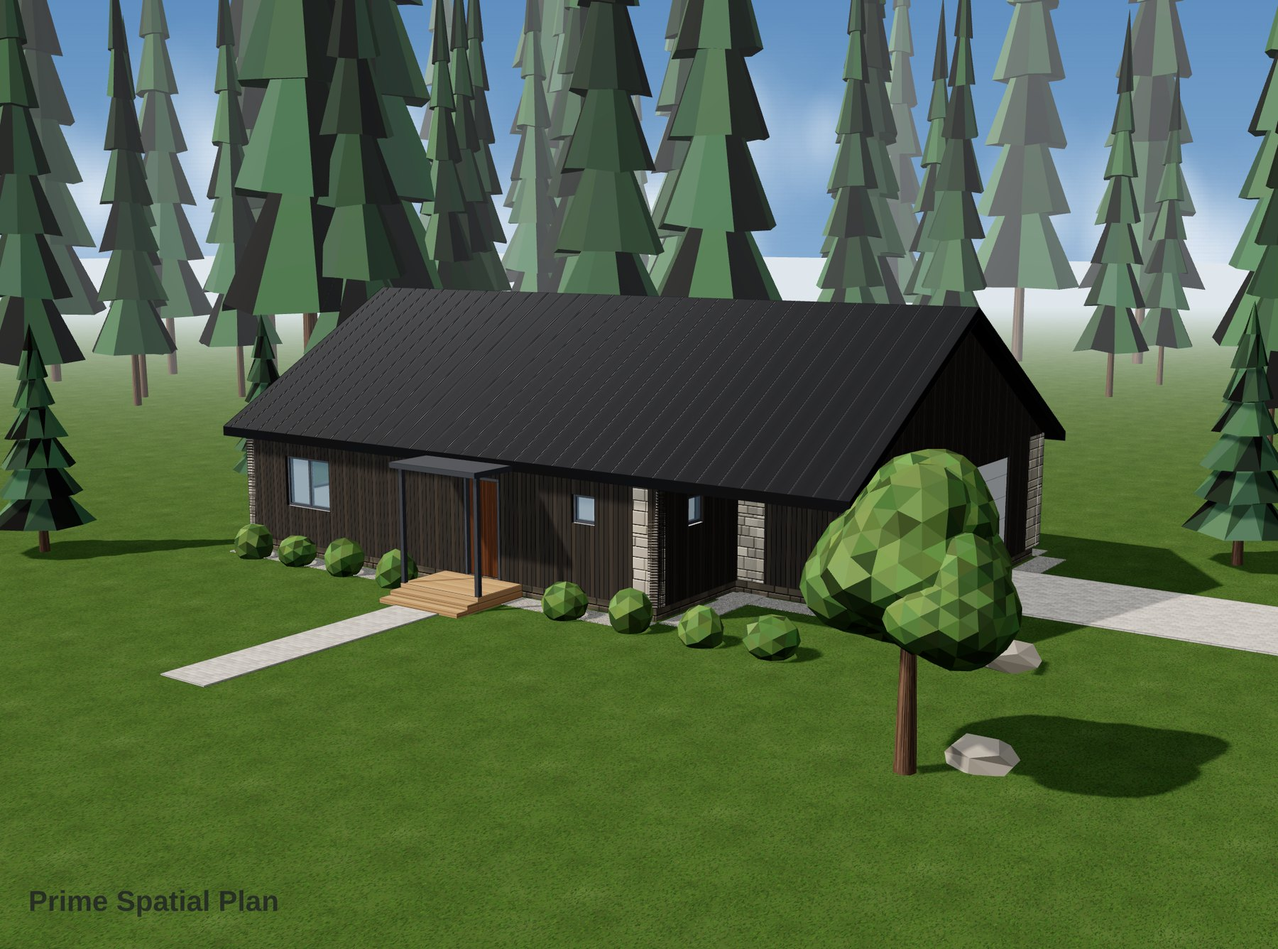
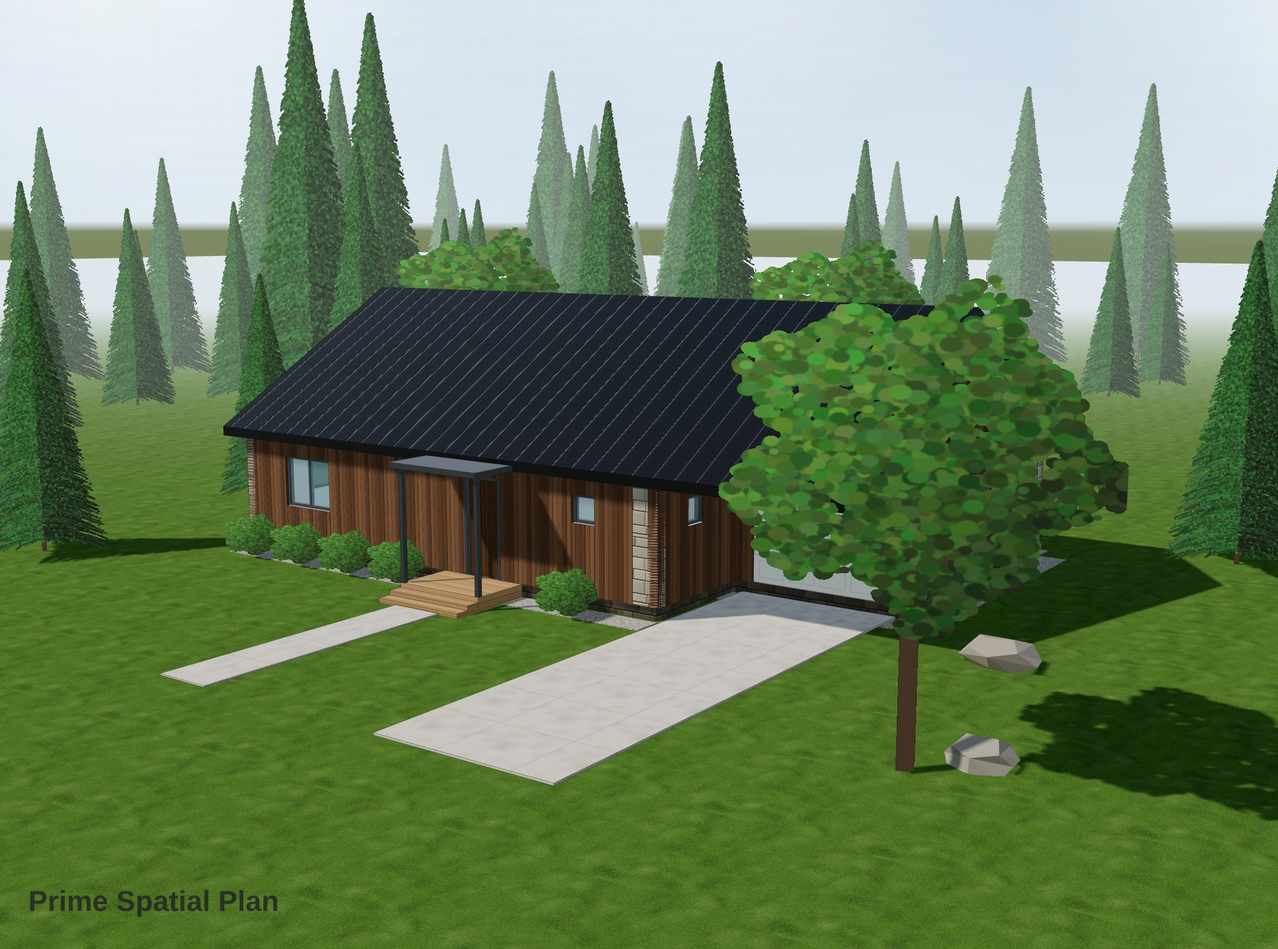
3D realism: painted billboard trees with true shadows, richer lawn, cedar facade, concrete drives, white sectional garage door, sky reflections; plan renders updated
Claude-Session: https://claude.ai/code/session_01UG1vAo71nibs4gLHwPWaPt

diff --git a/assets/planner3d.js b/assets/planner3d.js
@@ -5,7 +5,7 @@
 import * as THREE from './vendor/three.module.min.js';
 import {OrbitControls} from './vendor/OrbitControls.js';
 import {RoomEnvironment} from './vendor/RoomEnvironment.js';
-import {T, FACADE_FLAT} from './planner-tex.js?v=2';
+import {T, FACADE_FLAT} from './planner-tex.js?v=4';
 
 const FH = 3, SL = .25, PL = .3, T30 = Math.tan(30 * Math.PI / 180);
 const near = (a, b) => Math.abs(a - b) < 1e-4;
@@ -27,7 +27,7 @@ export function create(canvas, ui){
   const sun = new THREE.DirectionalLight(0xfff1df, 2.3); sun.castShadow = true;
   sun.shadow.mapSize.set(2048, 2048); sun.shadow.bias = -.0005; sun.shadow.normalBias = .03;
   scene.add(sun, sun.target);
-  const pmrem = new THREE.PMREMGenerator(renderer), envTex = pmrem.fromScene(new RoomEnvironment(), .04).texture;
+  const pmrem = new THREE.PMREMGenerator(renderer), envRoom = pmrem.fromScene(new RoomEnvironment(), .04).texture; let envSky = null;
   let root = new THREE.Group(); scene.add(root);
   let MODEL = null, ENTRIES = [], PAVED = [], PERIM = [];
   let frustum = 24, fbase = 24, fitted = false, M = null, LM = null, anim = null;
@@ -51,8 +51,12 @@ export function create(canvas, ui){
     };
     const rm = m.roof.mat || 'seam', vc = (c) => hid ? new THREE.MeshBasicMaterial({color:'#ffffff', polygonOffset:true, polygonOffsetFactor:1, polygonOffsetUnits:1})
       : real ? new THREE.MeshStandardMaterial({vertexColors:true, flatShading:true, roughness:.95, envMapIntensity:.25}) : new THREE.MeshLambertMaterial({vertexColors:true, flatShading:true});
+    const bb = (n, at) => { const m = new THREE.MeshStandardMaterial({map:T(n).map, alphaTest:at || .5, side:THREE.DoubleSide, roughness:.92, envMapIntensity:.25});
+      m.userData.depth = new THREE.MeshDepthMaterial({depthPacking:THREE.RGBADepthPacking, map:T(n).map, alphaTest:at || .5}); return m; };
     const R = {
-      F:{plaster:tx('plaster', FACADE_FLAT.plaster), brick:tx('brick', FACADE_FLAT.brick, {roughness:.92}), wood:tx('wood', FACADE_FLAT.wood, {roughness:.7}), stone:tx('stone', FACADE_FLAT.stone), timber:tx('timber', FACADE_FLAT.timber, {roughness:.8})},
+      F:{plaster:tx('plaster', FACADE_FLAT.plaster), brick:tx('brick', FACADE_FLAT.brick, {roughness:.92}), wood:tx('wood', FACADE_FLAT.wood, {roughness:.7}), stone:tx('stone', FACADE_FLAT.stone), timber:tx('timber', FACADE_FLAT.timber, {roughness:.8}), cedar:tx('cedar', FACADE_FLAT.cedar, {roughness:.8})},
+      concrete:tx('concrete', '#d2cfc8', {roughness:.92, env:.25}),
+      pine:real ? bb('pine') : null, leafy:real ? bb('leafy') : null, tuft:real ? bb('tuft', .35) : null,
       gravel:tx('gravel', '#c9c6bf', {roughness:1, env:.2}), deck:tx('deck', '#c9a77c', {roughness:.8}), rock:real ? new THREE.MeshStandardMaterial({color:'#9b968d', roughness:.95, flatShading:true, envMapIntensity:.3}) : mk('#c9c5bd', {flatShading:true}),
       porch:tx('stone', '#d4cfc6', {tint:'#e4e0d8'}), canopy:mk(real ? '#33363b' : '#55595f', {roughness:.5}),
       leaf:vc(), conifer:vc(),
@@ -67,11 +71,11 @@ export function create(canvas, ui){
       frame: mk(real ? '#3a3e44' : '#55595f', {roughness:.5, hid:'#ffffff'}),
       doorInt: mk(real ? '#d9cbb3' : '#e2d5bf', {roughness:.6}),
       doorExt: tx('doorWood', '#8a6040', {roughness:.55}),
-      garage: mk(real ? '#cfd2d6' : '#d6d8db', {roughness:.45, metalness:real ? .3 : 0}),
+      garage: real ? new THREE.MeshStandardMaterial({map:T('garageDoor').map, roughness:.45, metalness:.1, envMapIntensity:.5}) : mk('#d6d8db', {roughness:.45}),
       rail: mk(real ? '#f2eee7' : '#f1eee8'),
       roof: tx(rm, m.roof.color, {tint:m.roof.color, roughness:rm === 'shingle' ? .9 : .42, metalness:rm === 'shingle' ? 0 : .45, side:THREE.DoubleSide, env:.7}),
       seam: new THREE.LineBasicMaterial({color:hid ? '#9a9da2' : new THREE.Color(m.roof.color).multiplyScalar(.62), transparent:true, opacity:hid ? .6 : .9}),
-      grass: real ? tx('grass', '#dfe3d6', {roughness:1, env:.15, tint:'#aab494'}) : mk('#dfe3d6', {hid:'#ffffff'}),
+      grass: real ? tx('grass', '#dfe3d6', {roughness:1, env:.15, tint:'#c2c9ae'}) : mk('#dfe3d6', {hid:'#ffffff'}),
       earth: mk(real ? '#7b6a55' : '#c9c1b4', {roughness:1, hid:'#ffffff'}),
       pave: tx('pavers', '#d2cfc8', {roughness:.95}),
       trunk: tx('bark', '#a9998a'),
@@ -88,7 +92,7 @@ export function create(canvas, ui){
   function box(x0, x1, y0, y1, z0, z1, mat, o = {}){
     if(x1 - x0 < 1e-3 || y1 - y0 < 1e-3 || z1 - z0 < 1e-3) return null;
     const g = new THREE.BoxGeometry(x1 - x0, y1 - y0, z1 - z0), m = new THREE.Mesh(g, mat);
-    m.position.set((x0 + x1) / 2, (y0 + y1) / 2, (z0 + z1) / 2); wuv(g, m.position);
+    m.position.set((x0 + x1) / 2, (y0 + y1) / 2, (z0 + z1) / 2); if(!o.nouv) wuv(g, m.position);
     m.castShadow = o.cast !== false; m.receiveShadow = true; root.add(m);
     if(!o.noEdge){ const e = edgeLines(g); e.position.copy(m.position); root.add(e); }
     return m;
@@ -102,7 +106,7 @@ export function create(canvas, ui){
     uv.needsUpdate = true;
   }
   function prect(ori, u0, u1, v0, v1, y0, y1, mat, o){ const a = Math.min(u0, u1), b = Math.max(u0, u1), c = Math.min(v0, v1), d = Math.max(v0, v1);
-    if(mat === M.pave || mat === M.porch) PAVED.push(ori === 'h' ? [a, b, c, d] : [c, d, a, b]);
+    if(mat === M.pave || mat === M.porch || mat === M.concrete) PAVED.push(ori === 'h' ? [a, b, c, d] : [c, d, a, b]);
     return ori === 'h' ? box(a, b, y0, y1, c, d, mat, o) : box(c, d, y0, y1, a, b, mat, o); }
   /* facade material for an exterior wall piece */
   function facadeAt(i, yl){ const f = MODEL.facade; if(f !== 'mixed') return M.F[f] || M.F.plaster;
@@ -162,10 +166,10 @@ export function create(canvas, ui){
         const piece = (y0, y1, top) => ext ? ewall(L.ori, L.c, a, b, t, y0, y1, r.side, i, top ? ct : null) : wbox(L.ori, L.c, a, b, t, y0, y1, top ? mat : wm);
         if(ext && i === 0) PERIM.push({ori:L.ori, c:L.c, a:r.a, b:r.b, out:-(r.side || 1)});
         if(!o){
-          if(ext && MODEL.facade === 'timber' && r.b - r.a > 1.3){ const cw = Math.min(.9, (r.b - r.a) / 2 - .1), sa = !prev ? a + cw : a, sb = !next ? b - cw : b;
+          if(ext && (MODEL.facade === 'timber' || MODEL.facade === 'cedar') && r.b - r.a > 1.3){ const cw = Math.min(.9, (r.b - r.a) / 2 - .1), sa = !prev ? a + cw : a, sb = !next ? b - cw : b;
             if(!prev) wbox(L.ori, L.c, a, sa, t, z0, z0 + H, extMats(L.ori, r.side, M.F.stone, cutTop ? M.cut : null));
             if(!next) wbox(L.ori, L.c, sb, b, t, z0, z0 + H, extMats(L.ori, r.side, M.F.stone, cutTop ? M.cut : null));
-            wbox(L.ori, L.c, sa, sb, t, z0, z0 + H, extMats(L.ori, r.side, M.F.timber, cutTop ? M.cut : null)); return; }
+            wbox(L.ori, L.c, sa, sb, t, z0, z0 + H, extMats(L.ori, r.side, M.F[MODEL.facade], cutTop ? M.cut : null)); return; }
           piece(z0, z0 + H, true); return; }
         const s = Math.min(o.s, H), hd = Math.min(o.h, H);
         if(ext && i === 0 && o.k === 'door') ENTRIES.push({ori:L.ori, c:L.c, a:r.a, b:r.b, out:-(r.side || 1), h:o.h});
@@ -182,7 +186,8 @@ export function create(canvas, ui){
           return;
         }
         if(o.k === 'garage'){
-          const g = wbox(L.ori, L.c + (o.sw || 1) * -.05, a, b, .05, z0, z0 + hd, M.garage);
+          const g = wbox(L.ori, L.c + (o.sw || 1) * -.05, a, b, .05, z0, z0 + hd, M.garage, {nouv:true});
+          if(g && MODEL.style === 'realistic') return;
           if(g){ const pts = []; for(let y = .5; y < hd - .1; y += .5){ const yy = z0 + y - g.position.y;
               if(L.ori === 'h') pts.push(-(b - a) / 2, yy, -.03 * (o.sw || 1), (b - a) / 2, yy, -.03 * (o.sw || 1));
               else pts.push(-.03 * (o.sw || 1), yy, -(b - a) / 2, -.03 * (o.sw || 1), yy, (b - a) / 2); }
@@ -255,7 +260,7 @@ export function create(canvas, ui){
   function porch(e, b, pad){
     const w = e.b - e.a, cu = (e.a + e.b) / 2, W = Math.max(w + 1.2, 2), D = 1.4, o = e.out;
     const c0 = e.c + o * .125, c1 = c0 + o * D, c2 = c1 + o * .32, c3 = c2 + o * .32;
-    const pm = MODEL.facade === 'timber' || MODEL.facade === 'wood' ? M.deck : M.porch; if(pm === M.deck) PAVED.push(e.ori === 'h' ? [cu - W / 2, cu + W / 2, Math.min(c0, c3), Math.max(c0, c3)] : [Math.min(c0, c3), Math.max(c0, c3), cu - W / 2, cu + W / 2]);
+    const pm = /timber|wood|cedar/.test(MODEL.facade) ? M.deck : M.porch; if(pm === M.deck) PAVED.push(e.ori === 'h' ? [cu - W / 2, cu + W / 2, Math.min(c0, c3), Math.max(c0, c3)] : [Math.min(c0, c3), Math.max(c0, c3), cu - W / 2, cu + W / 2]);
     prect(e.ori, cu - W / 2, cu + W / 2, c0, c1, -PL, 0, pm);
     prect(e.ori, cu - W / 2, cu + W / 2, c1, c2, -PL, -.1, pm);
     prect(e.ori, cu - W / 2, cu + W / 2, c2, c3, -PL, -.2, pm);
@@ -263,7 +268,7 @@ export function create(canvas, ui){
     prect(e.ori, cu - W / 2 - .1, cu + W / 2 + .1, c0, c1 + o * .15, ch, ch + .12, M.canopy);
     [-1, 1].forEach(k => prect(e.ori, cu + k * (W / 2 - .05) - .05, cu + k * (W / 2 - .05) + .05, c1 - o * .02, c1 - o * .12, 0, ch, M.canopy));
     const edge = e.ori === 'h' ? (o > 0 ? b[3] + pad : b[1] - pad) : (o > 0 ? b[2] + pad : b[0] - pad);
-    if((edge - c3) * o > .2) prect(e.ori, cu - .6, cu + .6, c3, edge, -PL, -PL + .03, M.pave, {cast:false});
+    if((edge - c3) * o > .2) prect(e.ori, cu - .6, cu + .6, c3, edge, -PL, -PL + .03, MODEL.style === 'realistic' ? M.concrete : M.pave, {cast:false});
   }
   /* ---------- trees, shrubs ---------- */
   function rnd(seed){ let s = seed >>> 0 || 1; return () => (s = (Math.imul(s, 1664525) + 1013904223) >>> 0) / 4294967296; }
@@ -275,8 +280,23 @@ export function create(canvas, ui){
     g.setAttribute('color', new THREE.BufferAttribute(col, 3)); return g; }
   function part(g, mat, x, y, z, edges){ const m = new THREE.Mesh(g, mat); m.position.set(x, y, z); m.castShadow = true; m.receiveShadow = true; root.add(m);
     if(edges){ const e = edgeLines(g, 25); e.position.copy(m.position); root.add(e); } return m; }
+  /* cross-plane billboards: n vertical quads around the y axis, normals up so foliage is lit evenly */
+  function crossGeo(w, h, n, uvr){ const pos = [], uv = [], nor = [], u0 = uvr ? uvr[0] : 0, v0 = uvr ? uvr[1] : 0, u1 = uvr ? uvr[2] : 1, v1 = uvr ? uvr[3] : 1;
+    for(let k = 0; k < n; k++){ const a = k * Math.PI / n, cx = Math.cos(a) * w / 2, cz = Math.sin(a) * w / 2, Q = [[-cx, 0, -cz], [cx, 0, cz], [cx, h, cz], [-cx, h, -cz]];
+      [0, 1, 2, 0, 2, 3].forEach(i => pos.push(...Q[i])); [[u0, v0], [u1, v0], [u1, v1], [u0, v0], [u1, v1], [u0, v1]].forEach(q => uv.push(...q)); for(let i = 0; i < 6; i++) nor.push(0, 1, 0); }
+    const g = new THREE.BufferGeometry(); g.setAttribute('position', new THREE.Float32BufferAttribute(pos, 3)); g.setAttribute('uv', new THREE.Float32BufferAttribute(uv, 2)); g.setAttribute('normal', new THREE.Float32BufferAttribute(nor, 3)); return g; }
+  /* camera-facing (around the vertical axis) billboard; in the shadow pass it faces the sun so the shadow keeps the tree's outline */
+  const _v = new THREE.Vector3();
+  function sprite(g, mat, x, z, rot, shadow){ const m = new THREE.Mesh(g, mat); m.position.set(x, -PL, z); m.castShadow = shadow; m.customDepthMaterial = mat.userData.depth;
+    const face = c => { if(c.isOrthographicCamera){ c.getWorldDirection(_v); m.rotation.y = Math.atan2(-_v.x, -_v.z); } else m.rotation.y = Math.atan2(c.position.x - x, c.position.z - z);
+      m.updateMatrix(); m.matrixWorld.copy(m.matrix); m.modelViewMatrix.multiplyMatrices(c.matrixWorldInverse, m.matrixWorld); m.normalMatrix.getNormalMatrix(m.modelViewMatrix); };
+    m.onBeforeRender = (r, sc, c) => face(c); m.onBeforeShadow = (r, o, c, sc) => face(sc); root.add(m); return m; }
   function tree(x, z, s, kind, seed, edges){
     const y0 = -PL;
+    if(MODEL.style === 'realistic'){ const r = rnd(seed);
+      if(kind === 'conifer') sprite(crossGeo(3.4 * s, 7 * s, 1), M.pine, x, z, 0, true);
+      else sprite(crossGeo(5 * s, 6.6 * s, 1), M.leafy, x, z, 0, true);
+      return; }
     if(kind === 'conifer'){
       part(new THREE.CylinderGeometry(.08 * s, .13 * s, 1.2 * s, 7), M.trunk, x, y0 + .6 * s, z, false);
       for(let k = 0; k < 6; k++){ const g = paint(lumpy(new THREE.ConeGeometry((1.15 - .16 * k) * s, 1.3 * s, 10, 2).toNonIndexed(), seed + k, .07), '#34503a', seed * 7 + k);
@@ -299,8 +319,9 @@ export function create(canvas, ui){
     const cx = (b[0] + b[2]) / 2, cz = (b[1] + b[3]) / 2, R0 = Math.max(b[2] - b[0], b[3] - b[1]) / 2 + pad + 5, list = [];
     for(let i = 0; i < 240 && list.length < 140; i++){ const an = r() * Math.PI * 2, d = R0 + 2 + r() * 38, x = cx + Math.cos(an) * d, z = cz + Math.sin(an) * d;
       if(z > cz + 4 && Math.abs(x - cx) < R0 + 6 && d < R0 + 24) continue; list.push([x, z, 1.6 + r() * 2.4, r() * 6]); }
-    const im = new THREE.InstancedMesh(cg, M.conifer, list.length), it = new THREE.InstancedMesh(tg, M.trunk, list.length), mt = new THREE.Matrix4(), q = new THREE.Quaternion(), sc = new THREE.Vector3(), p = new THREE.Vector3();
-    list.forEach((t, i) => { q.setFromAxisAngle(new THREE.Vector3(0, 1, 0), t[3]); sc.set(t[2] * .75, t[2] * 1.45, t[2] * .75); p.set(t[0], -PL, t[1]); mt.compose(p, q, sc); im.setMatrixAt(i, mt); it.setMatrixAt(i, mt); });
+    if(MODEL.style === 'realistic'){ const g = crossGeo(3.2, 7, 1); list.forEach(t => { const sp = sprite(g, M.pine, t[0], t[1], 0, false); sp.scale.set(t[2] * .55, t[2] * .62, t[2] * .55); }); return; }
+    const real = false, im = new THREE.InstancedMesh(real ? crossGeo(3.2, 7, 3) : cg, real ? M.pine : M.conifer, list.length), it = new THREE.InstancedMesh(tg, M.trunk, real ? 0 : list.length), mt = new THREE.Matrix4(), q = new THREE.Quaternion(), sc = new THREE.Vector3(), p = new THREE.Vector3();
+    list.forEach((t, i) => { q.setFromAxisAngle(new THREE.Vector3(0, 1, 0), t[3]); if(real) sc.set(t[2] * .55, t[2] * .62, t[2] * .55); else sc.set(t[2] * .75, t[2] * 1.45, t[2] * .75); p.set(t[0], -PL, t[1]); mt.compose(p, q, sc); im.setMatrixAt(i, mt); if(!real) it.setMatrixAt(i, mt); });
     im.castShadow = false; root.add(im, it);
   }
   function landscape(b, pad, m){
@@ -315,8 +336,10 @@ export function create(canvas, ui){
     /* shrubs along the front facade, clear of paths */
     for(let x = b[0] + .7; x < b[2] - .5; x += 1.6){ const z = b[3] + .75;
       if(PAVED.some(p => x > p[0] - .7 && x < p[1] + .7 && z > p[2] - .7 && z < p[3] + .7)) continue;
+      if(m.style === 'realistic'){ sprite(crossGeo(1.25, 1, 1, [.06, .3, .94, .92]), M.leafy, x, z, 0, true); continue; }
       const g = paint(lumpy(new THREE.IcosahedronGeometry(.42 + (x * 7 % 1) * .12, 1), x * 3, .14), '#58763a', Math.floor(x * 100));
       part(g, M.leaf, x, -PL + .3, z, edges); }
+
   }
   /* ---------- whole model ---------- */
   function build(m){
@@ -330,7 +353,8 @@ export function create(canvas, ui){
     LM = new THREE.LineBasicMaterial({color:'#1b1d21', transparent:true, opacity:m.style === 'realistic' ? .3 : m.style === 'shaded' ? .8 : 1});
     const real = m.style === 'realistic';
     renderer.toneMapping = real ? THREE.ACESFilmicToneMapping : THREE.NoToneMapping; renderer.toneMappingExposure = 1.05;
-    scene.environment = real ? envTex : null;
+    if(real && !envSky) envSky = pmrem.fromEquirectangular(T('skyDay').map).texture;
+    scene.environment = real ? envSky : null;
     hemi.intensity = real ? .7 : m.style === 'shaded' ? .55 : 0; amb.intensity = m.style === 'shaded' ? .55 : 0;
     sun.intensity = real ? 2.6 : m.style === 'shaded' ? 1.4 : 0; sun.castShadow = m.shadows && m.style !== 'hidden';
 
@@ -350,7 +374,7 @@ export function create(canvas, ui){
     if(m.floors[0]) m.floors[0].ops.forEach(o => {
       if(o.k !== 'garage') return;
       const out = -(o.sw || 1), c1 = o.c + out * (o.ori === 'h' ? (out > 0 ? b[3] + pad - o.c : o.c - b[1] + pad) : (out > 0 ? b[2] + pad - o.c : o.c - b[0] + pad));
-      prect(o.ori, o.a - .3, o.b + .3, o.c, c1, -PL, -PL + .04, M.pave, {cast:false});
+      prect(o.ori, o.a - .3, o.b + .3, o.c, c1, -PL, -PL + .04, real ? M.concrete : M.pave, {cast:false});
     });
     m.floors.forEach((f, i) => {
       if(i > lastF) return;
@@ -372,7 +396,7 @@ export function create(canvas, ui){
     landscape(b, pad, m);
     /* eye-level surroundings: far lawn, forest, sky and haze */
     scene.background = null; scene.fog = null;
-    if(persp && real){ scene.background = T('sky').map; scene.fog = new THREE.Fog('#dfe7ec', 28, 150);
+    if(persp && real){ scene.background = T('skyDay').map; scene.fog = new THREE.Fog('#dfe7ec', 28, 150);
       const gg = new THREE.PlaneGeometry(600, 600); gg.rotateX(-Math.PI / 2); const gm = new THREE.Mesh(gg, M.grass); gm.position.set((b[0] + b[2]) / 2, -PL, (b[1] + b[3]) / 2); wuv(gg, gm.position); gm.receiveShadow = true; root.add(gm);
       forest(b, pad); }
 

diff --git a/assets/planner-tex.js b/assets/planner-tex.js
@@ -56,12 +56,12 @@ const MAKERS = {
     speckle(g, 512, 512, r, 9000, .3);
     return {map:tex(c, [1.4, 1.4]), bump:tex(b, [1.4, 1.4], false), bs:2.5}; },
   /* lawn */
-  grass(){ const [c, g] = cv(512, 512), r = rng(9);
-    g.fillStyle = '#7d9853'; g.fillRect(0, 0, 512, 512); blotch(g, 512, 512, r, 60, .06);
-    for(let i = 0; i < 14000; i++){ const x = r() * 512, y = r() * 512, l = 3 + r() * 6, an = -Math.PI / 2 + (r() - .5) * 1.1;
-      g.strokeStyle = `hsl(${78 + r() * 26},${32 + r() * 22}%,${26 + r() * 26}%)`; g.lineWidth = .8 + r() * .8;
+  grass(){ const [c, g] = cv(1024, 1024), r = rng(9);
+    g.fillStyle = '#6e9140'; g.fillRect(0, 0, 1024, 1024); blotch(g, 1024, 1024, r, 160, .11);
+    for(let i = 0; i < 60000; i++){ const x = r() * 1024, y = r() * 1024, l = 3 + r() * 7, an = -Math.PI / 2 + (r() - .5) * 1.2;
+      g.strokeStyle = `hsl(${76 + r() * 24},${38 + r() * 22}%,${28 + r() * 26}%)`; g.lineWidth = .7 + r() * .8;
       g.beginPath(); g.moveTo(x, y); g.lineTo(x + Math.cos(an) * l, y + Math.sin(an) * l); g.stroke(); }
-    return {map:tex(c, [3, 3])}; },
+    return {map:tex(c, [2.5, 2.5])}; },
   /* concrete block pavers, 200 × 100 mm */
   pavers(){ const [c, g] = cv(512, 512), [b, h] = cv(512, 512), r = rng(4), rows = 10, rh = 51.2, bw = 102.4;
     g.fillStyle = '#7d786f'; g.fillRect(0, 0, 512, 512); h.fillStyle = '#333'; h.fillRect(0, 0, 512, 512);
@@ -123,6 +123,53 @@ const MAKERS = {
       for(let k = 0; k < 14; k++){ const x = cx + (r() - .5) * w, y = cy + (r() - .5) * w * .22, rad = 18 + r() * 46, a = .1 + r() * .16;
         const rg = g.createRadialGradient(x, y, 0, x, y, rad); rg.addColorStop(0, `rgba(255,255,255,${a})`); rg.addColorStop(1, 'rgba(255,255,255,0)'); g.fillStyle = rg; g.fillRect(x - rad, y - rad, rad * 2, rad * 2); } }
     const t = new THREE.CanvasTexture(c); t.colorSpace = THREE.SRGBColorSpace; return {map:t}; },
+  /* warm cedar vertical boards */
+  cedar(){ const [c, g] = cv(512, 512), [b, h] = cv(512, 512), r = rng(23), n = 8, bw = 512 / n, pal = ['#6b4a32', '#76533a', '#5f412c', '#7f5b40', '#6f4d35'];
+    h.fillStyle = '#cccccc'; h.fillRect(0, 0, 512, 512);
+    for(let i = 0; i < n; i++){ const x = i * bw; g.fillStyle = pal[Math.floor(r() * pal.length)]; g.fillRect(x, 0, bw, 512);
+      for(let k = 0; k < 34; k++){ const xx = x + r() * bw, a = .05 + r() * .1; g.strokeStyle = r() < .55 ? `rgba(40,22,10,${a})` : `rgba(220,180,140,${a * .5})`; g.lineWidth = .6 + r() * 1.2;
+        g.beginPath(); g.moveTo(xx, 0); for(let y = 0; y <= 512; y += 32) g.lineTo(xx + Math.sin(y * .02 + k) * 1.4, y); g.stroke(); }
+      g.fillStyle = 'rgba(25,14,6,.65)'; g.fillRect(x + bw - 4, 0, 4, 512); g.fillStyle = 'rgba(255,230,200,.07)'; g.fillRect(x, 0, 2, 512); h.fillStyle = '#333'; h.fillRect(x + bw - 4, 0, 4, 512); }
+    return {map:tex(c, [.96, 1.6]), bump:tex(b, [.96, 1.6], false), bs:2.5}; },
+  /* poured concrete with saw-cut joints every 1.5 m */
+  concrete(){ const [c, g] = cv(512, 512), [b, h] = cv(512, 512), r = rng(25);
+    g.fillStyle = '#c9c6bf'; g.fillRect(0, 0, 512, 512); blotch(g, 512, 512, r, 50, .05); speckle(g, 512, 512, r, 12000, .18);
+    h.fillStyle = '#bbb'; h.fillRect(0, 0, 512, 512); g.fillStyle = 'rgba(70,68,64,.55)'; h.fillStyle = '#222';
+    [0, 511].forEach(v => { g.fillRect(v, 0, 2, 512); g.fillRect(0, v, 512, 2); h.fillRect(v, 0, 2, 512); h.fillRect(0, v, 512, 2); });
+    return {map:tex(c, [1.5, 1.5]), bump:tex(b, [1.5, 1.5], false), bs:1}; },
+  /* white sectional garage door with a row of windows (0..1 UVs across the door) */
+  garageDoor(){ const [c, g] = cv(512, 512), rows = 4;
+    g.fillStyle = '#f2f2f0'; g.fillRect(0, 0, 512, 512);
+    for(let j = 0; j < rows; j++){ const y = j * 128; g.fillStyle = 'rgba(0,0,0,.18)'; g.fillRect(0, y + 124, 512, 4); g.fillStyle = 'rgba(255,255,255,.6)'; g.fillRect(0, y, 512, 2);
+      for(let i = 0; i < 4; i++){ const x = 18 + i * 124; if(j === 0){ g.fillStyle = '#3d4a56'; g.fillRect(x + 6, y + 30, 100, 62); g.fillStyle = 'rgba(255,255,255,.25)'; g.fillRect(x + 8, y + 32, 40, 20); }
+        else { g.strokeStyle = 'rgba(0,0,0,.12)'; g.lineWidth = 3; g.strokeRect(x + 6, y + 22, 100, 80); } } }
+    const t = new THREE.CanvasTexture(c); t.colorSpace = THREE.SRGBColorSpace; return {map:t}; },
+  /* painted conifer for cross-plane billboards (alpha) */
+  pine(){ const [c, g] = cv(256, 512), r = rng(41);
+    g.fillStyle = '#4a3626'; g.fillRect(124, 300, 8, 212);
+    for(let i = 0; i < 3200; i++){ const t = Math.pow(r(), .85), y = 492 - t * 476, mw = 112 * Math.pow(1 - t, 1.05) + 5, side = r() < .5 ? -1 : 1, len = (.15 + r() * .85) * mw;
+      const lit = side < 0 ? 9 : -4, L = 13 + r() * 15 + lit + (1 - t) * -3;
+      g.strokeStyle = `hsl(${100 + r() * 35},${22 + r() * 22}%,${Math.max(6, L)}%)`; g.lineWidth = 1 + r() * 2.2;
+      g.beginPath(); g.moveTo(128 + side * r() * 3, y); g.quadraticCurveTo(128 + side * len * .55, y - 3, 128 + side * len, y + len * .22 + r() * 5); g.stroke(); }
+    for(let i = 0; i < 6000; i++){ const t = Math.pow(r(), .85), y = 492 - t * 476 + r() * 8, mw = 112 * Math.pow(1 - t, 1.05) + 4, x = 128 + (r() * 2 - 1) * mw * Math.sqrt(r());
+      g.fillStyle = `hsl(${95 + r() * 40},${25 + r() * 25}%,${10 + r() * 22 + (x < 128 ? 6 : 0)}%)`; g.fillRect(x, y, 1.5 + r() * 2, 1.5 + r() * 2); }
+    const t = new THREE.CanvasTexture(c); t.colorSpace = THREE.SRGBColorSpace; t.anisotropy = 4; return {map:t}; },
+  /* painted broadleaf tree */
+  leafy(){ const [c, g] = cv(256, 512), r = rng(43);
+    g.strokeStyle = '#4b3a2b'; g.lineCap = 'round';
+    [[128, 512, 128, 250, 12], [128, 360, 70, 250, 6], [128, 330, 190, 230, 6], [128, 290, 110, 160, 5], [128, 300, 160, 170, 4]].forEach(b => { g.lineWidth = b[4]; g.beginPath(); g.moveTo(b[0], b[1]); g.lineTo(b[2], b[3]); g.stroke(); });
+    for(let i = 0; i < 2600; i++){ const a = r() * Math.PI * 2, rr = Math.sqrt(r()), wob = 1 + .12 * Math.sin(a * 5 + 1) + .08 * Math.sin(a * 9);
+      const x = 128 + Math.cos(a) * rr * 112 * wob, y = 200 + Math.sin(a) * rr * 150 * wob, lit = (128 - x) * .05 + (200 - y) * .04;
+      g.fillStyle = `hsl(${85 + r() * 30},${30 + r() * 22}%,${Math.max(8, 20 + r() * 14 + lit)}%)`; g.beginPath(); g.arc(x, y, 2.5 + r() * 5, 0, 7); g.fill(); }
+    const t = new THREE.CanvasTexture(c); t.colorSpace = THREE.SRGBColorSpace; t.anisotropy = 4; return {map:t}; },
+  /* tuft of grass blades */
+  tuft(){ const [c, g] = cv(128, 128), r = rng(47);
+    for(let i = 0; i < 70; i++){ const x = 14 + r() * 100, h = 50 + r() * 74, lean = (r() - .5) * 40, w = 1.5 + r() * 2.5;
+      g.fillStyle = `hsl(${78 + r() * 30},${35 + r() * 25}%,${22 + r() * 24}%)`; g.beginPath(); g.moveTo(x - w, 128); g.quadraticCurveTo(x + lean * .3, 128 - h * .6, x + lean, 128 - h); g.quadraticCurveTo(x + lean * .3 + w * .4, 128 - h * .6, x + w, 128); g.fill(); }
+    const t = new THREE.CanvasTexture(c); t.colorSpace = THREE.SRGBColorSpace; return {map:t}; },
+  /* equirectangular skies used for the background and for reflections */
+  skyDay(){ return eq(['#4f80b4', '#8fb3d6', '#dbe7ef'], ['#7f8b62', '#56603f'], 'rgba(255,255,255,', 51); },
+  skyDusk(){ return eq(['#16233f', '#3e4f7a', '#e89c64'], ['#2c3024', '#1d2018'], 'rgba(255,190,150,', 53); },
   bark(){ const [c, g] = cv(128, 256), r = rng(6); g.fillStyle = '#5d4636'; g.fillRect(0, 0, 128, 256);
     for(let i = 0; i < 160; i++){ g.strokeStyle = r() < .5 ? 'rgba(25,15,8,.5)' : 'rgba(150,120,95,.35)'; g.lineWidth = 1 + r() * 2; const x = r() * 128;
       g.beginPath(); g.moveTo(x, r() * 256); g.lineTo(x + (r() - .5) * 6, r() * 256); g.stroke(); }
@@ -134,6 +181,13 @@ const MAKERS = {
 };
 function blotchRect(g, x, y, w, h, r){ const gr = g.createLinearGradient(x, y, x + w, y + h); gr.addColorStop(0, `rgba(255,255,255,${.08 * r()})`); gr.addColorStop(1, `rgba(0,0,0,${.12 * r()})`); g.fillStyle = gr; g.fillRect(x, y, w, h); }
 
+function eq(sky, gr, cl, seed){ const [c, g] = cv(1024, 512), r = rng(seed);
+  let G = g.createLinearGradient(0, 0, 0, 256); G.addColorStop(0, sky[0]); G.addColorStop(.6, sky[1]); G.addColorStop(1, sky[2]); g.fillStyle = G; g.fillRect(0, 0, 1024, 256);
+  for(let i = 0; i < 40; i++){ const cx = r() * 1024, cy = 110 + r() * 120, w = 60 + r() * 160;
+    for(let k = 0; k < 12; k++){ const x = cx + (r() - .5) * w, y = cy + (r() - .5) * w * .15, rad = 10 + r() * 34, a = .08 + r() * .14;
+      const rg = g.createRadialGradient(x, y, 0, x, y, rad); rg.addColorStop(0, cl + a + ')'); rg.addColorStop(1, cl + '0)'); g.fillStyle = rg; g.fillRect(x - rad, y - rad, rad * 2, rad * 2); } }
+  G = g.createLinearGradient(0, 256, 0, 512); G.addColorStop(0, gr[0]); G.addColorStop(1, gr[1]); g.fillStyle = G; g.fillRect(0, 256, 1024, 256);
+  const t = new THREE.CanvasTexture(c); t.colorSpace = THREE.SRGBColorSpace; t.mapping = THREE.EquirectangularReflectionMapping; return {map:t}; }
 export function T(name){ if(!cache[name]) cache[name] = MAKERS[name](); return cache[name]; }
-export const FACADE_FLAT = {plaster:'#efe9df', brick:'#a8634a', wood:'#9b6c45', stone:'#aaa396', timber:'#3a3530'};
+export const FACADE_FLAT = {plaster:'#efe9df', brick:'#a8634a', wood:'#9b6c45', stone:'#aaa396', timber:'#3a3530', cedar:'#7a5a40'};
 export {shade};

diff --git a/assets/planner.js b/assets/planner.js
@@ -22,7 +22,7 @@
         confirmClear:'Дахин дарж бүх зургийг устгана', saved:'Хадгалагдсан', addFloor:'+ Давхар', delFloor:'Давхар устгах',
         door:'Хаалга', win:'Цонх', garage:'Гаражийн хаалга', doors:'Хаалга', wins:'Цонх', roof:'Дээвэр', autoOn:'Автомат байрлал',
         rt:{auto:'Автомат', gable:'Хоёр налуу', hip:'Дөрвөн налуу', flat:'Хавтгай'},
-        fc:{auto:'Автомат (тоосго + шавардлага)', plaster:'Шавардлага', brick:'Тоосго', wood:'Модон өнгөлгөө', timber:'Хар мод + чулуун булан', stone:'Чулуун өнгөлгөө'},
+        fc:{auto:'Автомат (тоосго + шавардлага)', plaster:'Шавардлага', brick:'Тоосго', wood:'Модон өнгөлгөө', cedar:'Хүрэн мод + чулуун булан', timber:'Хар мод + чулуун булан', stone:'Чулуун өнгөлгөө'},
         rm:{seam:'Төмөр хавтан', tile:'Металл ваар', shingle:'Битум ширгэл'},
         hint:{draw:'Тор дээр чирж өрөө зурна · өрөөн дээр дарж сонгоно · хоёр хуруугаар томруулна', door:'Хананд дарж хаалга нэмнэ · хаалган дээр дарж сонгоно', win:'Хананд дарж цонх нэмнэ · цонхон дээр дарж сонгоно', select:'Өрөө, хаалга, цонхыг дарж сонгоод чирж зөөнө', d3:'Чирж эргүүлнэ · хоёр хуруугаар томруулж, зөөнө · баруун дээд кубаас харагдац сонгоно'},
         vc:{top:'ДЭЭР', front:'УРД', right:'БАРУУН', back:'АР', left:'ЗҮҮН'}},
@@ -31,7 +31,7 @@
         confirmClear:'Tap again to clear everything', saved:'Saved', addFloor:'+ Floor', delFloor:'Delete floor',
         door:'Door', win:'Window', garage:'Garage door', doors:'Doors', wins:'Windows', roof:'Roof', autoOn:'Auto layout',
         rt:{auto:'Auto', gable:'Gable', hip:'Hip', flat:'Flat'},
-        fc:{auto:'Auto (brick + render)', plaster:'Render', brick:'Brick', wood:'Timber cladding', timber:'Dark timber + stone corners', stone:'Stone cladding'},
+        fc:{auto:'Auto (brick + render)', plaster:'Render', brick:'Brick', wood:'Timber cladding', cedar:'Cedar + stone corners', timber:'Dark timber + stone corners', stone:'Stone cladding'},
         rm:{seam:'Standing seam metal', tile:'Metal tile', shingle:'Asphalt shingles'},
         hint:{draw:'Drag on the grid to draw a room · tap a room to select it · pinch or scroll to zoom', door:'Tap a wall to add a door · tap a door to select it', win:'Tap a wall to add a window · tap a window to select it', select:'Tap a room, door or window to select it, drag to move', d3:'Drag to orbit · pinch or scroll to zoom, two fingers to pan · pick a view on the cube'},
         vc:{top:'TOP', front:'FRONT', right:'RIGHT', back:'BACK', left:'LEFT'}}
@@ -347,7 +347,7 @@
     if(r3state === 3){ drawLegacy(); return; }
     if(r3state === 1) return;
     r3state = 1;
-    import(new URL('assets/planner3d.js?v=4', location.href).href).then(function(m){
+    import(new URL('assets/planner3d.js?v=6', location.href).href).then(function(m){
       r3 = m.create(cv, {cube:$('plCube')}); r3state = 2; window.PSP3D = r3; if(view === '3d') r3.update(model3());
     }).catch(function(err){ console.warn('3D fallback', err); r3state = 3; if(view === '3d') drawLegacy(); });
   }

diff --git a/planner.html b/planner.html
@@ -133,7 +133,7 @@
           <div class="f"><label for="plRoof" data-en="Roof">Дээвэр</label><select id="plRoof"><option value="auto">Автомат</option><option value="gable">Хоёр налуу</option><option value="hip">Дөрвөн налуу</option><option value="flat">Хавтгай</option></select></div>
           <div class="pl-sw" id="plRoofC" role="group" aria-label="Дээврийн өнгө" data-en-aria="Roof colour"></div>
           <div class="f"><label for="plRoofMat" data-en="Roof material">Дээврийн материал</label><select id="plRoofMat"><option value="seam">Төмөр хавтан</option><option value="tile">Металл ваар</option><option value="shingle">Битум ширгэл</option></select></div>
-          <div class="f"><label for="plFacade" data-en="Facade">Фасад (гадна хана)</label><select id="plFacade"><option value="auto">Автомат</option><option value="plaster">Шавардлага</option><option value="brick">Тоосго</option><option value="wood">Модон өнгөлгөө</option><option value="timber">Хар мод + чулуун булан</option><option value="stone">Чулуун өнгөлгөө</option></select></div>
+          <div class="f"><label for="plFacade" data-en="Facade">Фасад (гадна хана)</label><select id="plFacade"><option value="auto">Автомат</option><option value="plaster">Шавардлага</option><option value="brick">Тоосго</option><option value="wood">Модон өнгөлгөө</option><option value="cedar">Хүрэн мод + чулуун булан</option><option value="timber">Хар мод + чулуун булан</option><option value="stone">Чулуун өнгөлгөө</option></select></div>
           <label class="pl-check"><input type="checkbox" id="plPorch" checked><span data-en="Add entrance porch, steps and footpath automatically">Гадна хаалганд довжоо, шат, явган замыг автоматаар нэмэх</span></label>
         </section>
         <section class="pl-card">
@@ -166,6 +166,6 @@
   </div>
 </footer>
 <script src="assets/site.js?v=22"></script>
-<script src="assets/planner.js?v=7"></script>
+<script src="assets/planner.js?v=8"></script>
 </body>
 </html>

diff --git a/assets/plans-ui.js b/assets/plans-ui.js
@@ -8,7 +8,7 @@
     storage:{mn:'Агуулахтай', en:'Storage room'}, garage:{mn:'Гараж', en:'Garage'}, mudroom:{mn:'Үүдний өрөө', en:'Mud room'}, twoBaths:{mn:'2 АЦӨ', en:'2 bathrooms'},
     balcony:{mn:'Тагт', en:'Balcony'}, study:{mn:'Ажлын өрөө', en:'Home office'}};
   var RMAT = {seam:{mn:'төмөр хавтан', en:'standing seam metal'}, tile:{mn:'металл ваар', en:'metal tile'}, shingle:{mn:'битум ширгэл', en:'asphalt shingles'}};
-  var FAC = {auto:{mn:'Тоосго + шавардлага', en:'Brick + render'}, plaster:{mn:'Шавардлага', en:'Render'}, brick:{mn:'Тоосго', en:'Brick'}, wood:{mn:'Модон өнгөлгөө', en:'Timber cladding'}, timber:{mn:'Хар мод, чулуун булан', en:'Dark timber, stone corners'}, stone:{mn:'Чулуун өнгөлгөө', en:'Stone cladding'}};
+  var FAC = {auto:{mn:'Тоосго + шавардлага', en:'Brick + render'}, plaster:{mn:'Шавардлага', en:'Render'}, brick:{mn:'Тоосго', en:'Brick'}, wood:{mn:'Модон өнгөлгөө', en:'Timber cladding'}, timber:{mn:'Хар мод, чулуун булан', en:'Dark timber, stone corners'}, cedar:{mn:'Хүрэн мод, чулуун булан', en:'Cedar, stone corners'}, stone:{mn:'Чулуун өнгөлгөө', en:'Stone cladding'}};
   var ROOF = {gable:{mn:'Хоёр налуу', en:'Gable'}, hip:{mn:'Дөрвөн налуу', en:'Hip'}, flat:{mn:'Хавтгай', en:'Flat'}};
   var S = {
     mn:{m2:'м²', beds:'Унтлагын өрөө', baths:'АЦӨ', floors:'Давхар', garage:'Гараж', yes:'Байгаа', no:'Байхгүй', sample:'Жишээ', onReq:'Үнийн санал авах', from:'-с эхэлнэ',

diff --git a/assets/plans.js b/assets/plans.js
@@ -53,7 +53,7 @@ window.PSP_PLAN_OPTIONS = {
       title:{mn:'Нэг давхар амины сууц, гаражтай', en:'Single-storey house with garage'},
       lead:{mn:'Нэг давхарт 2 унтлагын өрөө, 2 ариун цэврийн өрөөтэй. Гаражаас жижиг үүдний өрөөгөөр дамжин шууд гал тогоо руу орно.',
             en:'Two bedrooms and two bathrooms on one level, with a small mud room linking the garage straight to the kitchen.'},
-      roof:{type:'gable', color:'#2b2d31', mat:'seam'}, facade:'timber', tags:['oneStorey', 'garage', 'mudroom', 'twoBaths'],
+      roof:{type:'gable', color:'#2b2d31', mat:'seam'}, facade:'cedar', tags:['oneStorey', 'garage', 'mudroom', 'twoBaths'],
       floors:[{rooms:[R('living',0,0,6.5,5), R('kitchen',6.5,0,4,4), R('hall',10.5,0,1.5,4), R('garage',12,0,4,7), R('hall',6.5,4,2,6), R('bed',0,5,4,5), R('bath',4,5,2.5,2.5), R('storage',4,7.5,2.5,2.5), R('bed',8.5,4,3.5,3.5), R('bath',8.5,7.5,3.5,2.5)]}]
     },
     {
